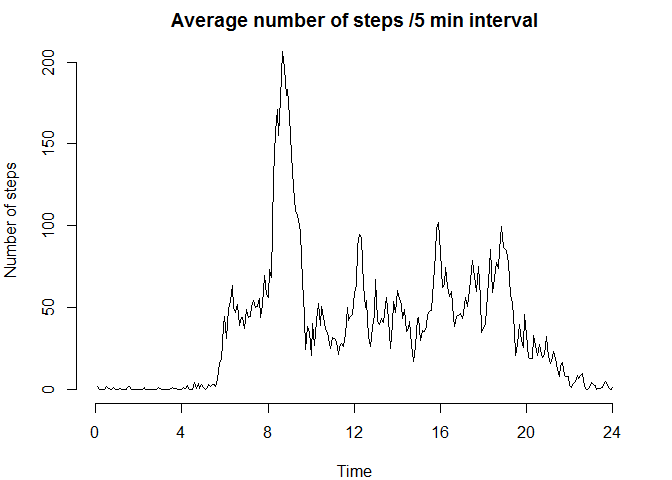
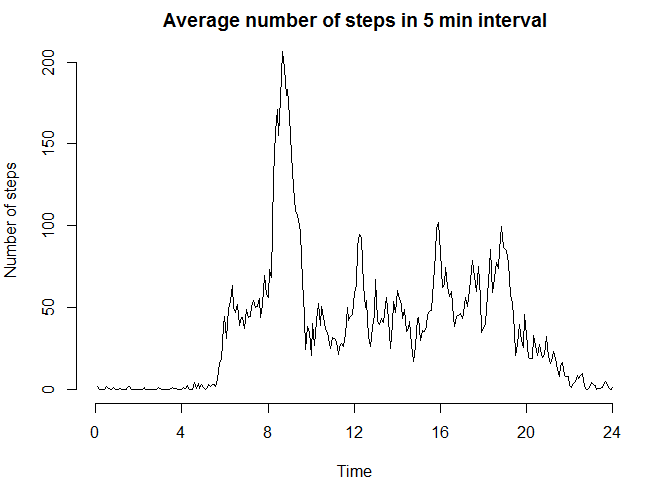
PA1 fixes

Changed region(s): [[0.2188, 0.0312, 0.8125, 0.0625]]

diff --git a/PA1_template.html b/PA1_template.html
@@ -91,11 +91,11 @@ tab2 &lt;- tapply(activityVals$steps,as.factor(activityVals$interval), mean)
 par(mar=c(4,4,2,2), cex=1)
 
 plot(tab2, xlab=&quot;Time&quot;, axes=FALSE, ylab=&quot;Number of steps&quot;, 
-     main=&quot;Average number of steps /5 min interval&quot;, 
+     main=&quot;Average number of steps in 5 min interval&quot;, 
      type=&quot;l&quot;)
 axis(2)
 axis(1, at=c(0,48,96,144,192,240,288), labels=c(&quot;0&quot;,&quot;4&quot;,&quot;8&quot;,&quot;12&quot;,&quot;16&quot;,&quot;20&quot;,&quot;24&quot;)) </code></pre>
[2 lines of base64/hex data omitted]
 <p>The 5-minute interval with the highest number of average steps is calulated:</p>
 <pre class="r"><code>rownames(tab2)[match(max(tab2),tab2)]</code></pre>
 <pre><code>## [1] &quot;835&quot;</code></pre>

diff --git a/PA1_template.md b/PA1_template.md
@@ -59,7 +59,7 @@ tab2 <- tapply(activityVals$steps,as.factor(activityVals$interval), mean)
 par(mar=c(4,4,2,2), cex=1)
 
 plot(tab2, xlab="Time", axes=FALSE, ylab="Number of steps", 
-     main="Average number of steps /5 min interval", 
+     main="Average number of steps in 5 min interval", 
      type="l")
 axis(2)
 axis(1, at=c(0,48,96,144,192,240,288), labels=c("0","4","8","12","16","20","24")) 
